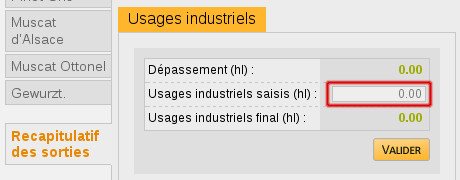
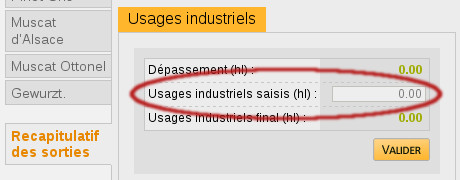
présentation du choi de mode de saisi plus clair

Changed region(s): [[0.2739, 0.3611, 0.9739, 0.6944]]

diff --git a/project/apps/civa/modules/acheteur/templates/exploitationAcheteursSuccess.php b/project/apps/civa/modules/acheteur/templates/exploitationAcheteursSuccess.php
@@ -211,12 +211,12 @@
                                     <tr>
                                         <td style="text-align: center;">
                                             <label for="exploitation_acheteurs_lies_saisis_cepage_0">
-                                                <img src="/images/visuels/mode_saisie_lies_appellation.jpg" style="width: 250px;" />
+                                                <img src="/images/visuels/mode_saisie_lies_appellation.jpg" style="width: 300px; border: 1px solid #C6C8C7;" />
                                             </label>
                                         </td>
                                         <td style="text-align: center;">
                                             <label for="exploitation_acheteurs_lies_saisis_cepage_1">
-                                                <img src="/images/visuels/mode_saisie_lies_cepage.jpg" style="width: 250px;" />
+                                                <img src="/images/visuels/mode_saisie_lies_cepage.jpg" style="width: 300px; border: 1px solid #C6C8C7" />
                                             </label>
                                         </td>
                                     </tr>

diff --git a/project/lib/form/exploitation/ExploitationAcheteursForm.class.php b/project/lib/form/exploitation/ExploitationAcheteursForm.class.php
@@ -17,10 +17,10 @@ class ExploitationAcheteursForm extends acCouchdbObjectForm {
     }
 
     public function configure() {
-        $this->setWidget('lies_saisis_cepage', new sfWidgetFormChoice(array("expanded" => true, "choices" => array(0 => "Global par appellation", 1 => "Unitairement par cépage"))));
+        $this->setWidget('lies_saisis_cepage', new sfWidgetFormChoice(array("expanded" => true, "choices" => array(0 => "par appellation", 1 => "par cépage"))));
         $this->setValidator('lies_saisis_cepage', new sfValidatorBoolean());
 
-        $this->getWidget('lies_saisis_cepage')->setLabel("Pour saisir les usages industriels, il existe deux méthodes :");
+        $this->getWidget('lies_saisis_cepage')->setLabel("Si vous souhaitez saisir des usages industriels, il existe deux méthodes :");
 
         $this->configureMultipleItem(self::FORM_NAME_NEGOCES, $this->getObject()->getArrayNegocesWithAppellation(), self::getListeAppellations(), ListAcheteursConfig::getNegoces());
         $this->configureMultipleItem(self::FORM_NAME_COOPERATIVES, $this->getObject()->getArrayCooperativesWithAppellation(), self::getListeAppellations(), ListAcheteursConfig::getCooperatives());
